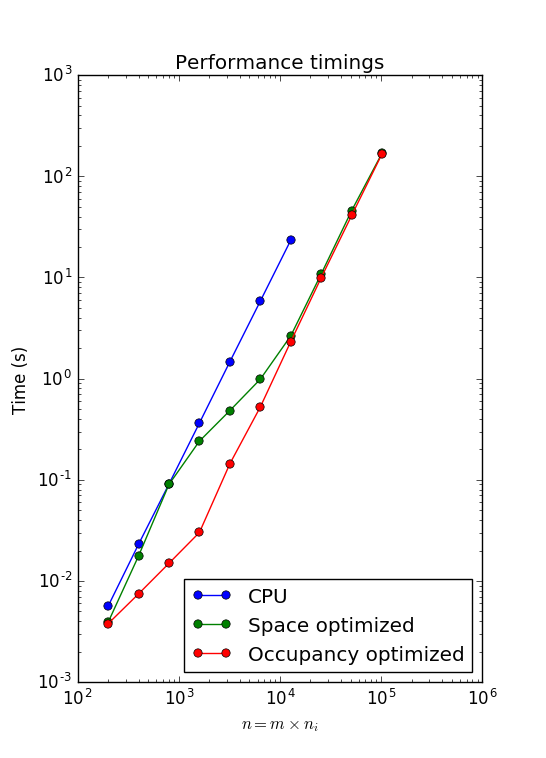
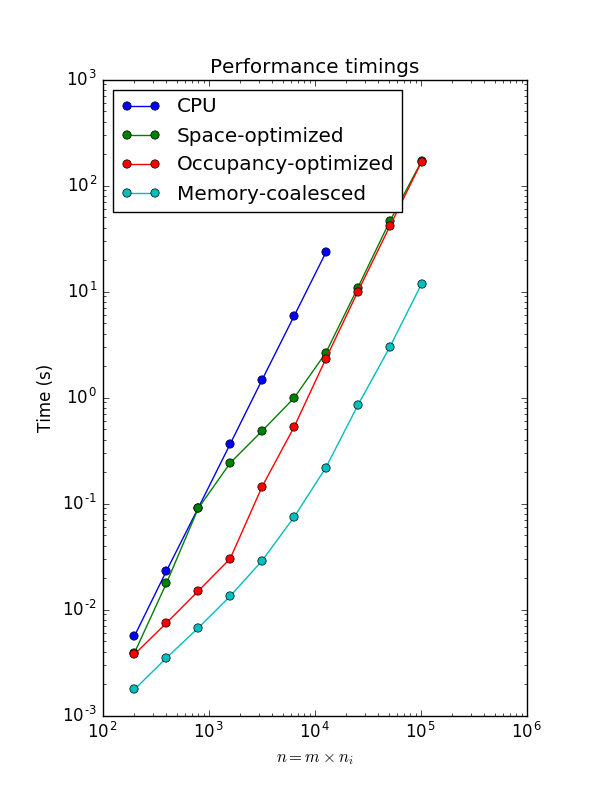
Add memory-coalesced line to plot

diff --git a/scripts/plot.py b/scripts/plot.py
@@ -55,6 +55,8 @@ def main():
             DataGetter.get_gpu_timing('../timingFiles/gpuSpaceOptimized.stdout')
     occ_opt_n, occ_opt_inclusive_in_s, occ_opt_exclusive_in_s =  \
             DataGetter.get_gpu_timing('../timingFiles/gpuOccupancy.stdout')
+    mem_coa_n, mem_coa_inclusive_in_s, mem_coa_exclusive_in_s =  \
+            DataGetter.get_gpu_timing('../timingFiles/gpuCoalesced.stdout')
 
     # Plot
     plt.figure()
@@ -63,8 +65,9 @@ def main():
     ax.set_yscale('log', basex=10)
     ax.set_aspect('equal')
     ax.plot(cpu_n, cpu_timing_in_s, 'o-', label='CPU')
-    ax.plot(space_opt_n, space_opt_inclusive_in_s, 'o-', label="Space optimized")
-    ax.plot(occ_opt_n, occ_opt_inclusive_in_s, 'o-', label="Occupancy optimized")
+    ax.plot(space_opt_n, space_opt_inclusive_in_s, 'o-', label="Space-optimized")
+    ax.plot(occ_opt_n, occ_opt_inclusive_in_s, 'o-', label="Occupancy-optimized")
+    ax.plot(mem_coa_n, mem_coa_inclusive_in_s, 'o-', label="Memory-coalesced")
 
     plt.ylabel('Time (s)')
     plt.xlabel(r'$n = m \times n_i$')
